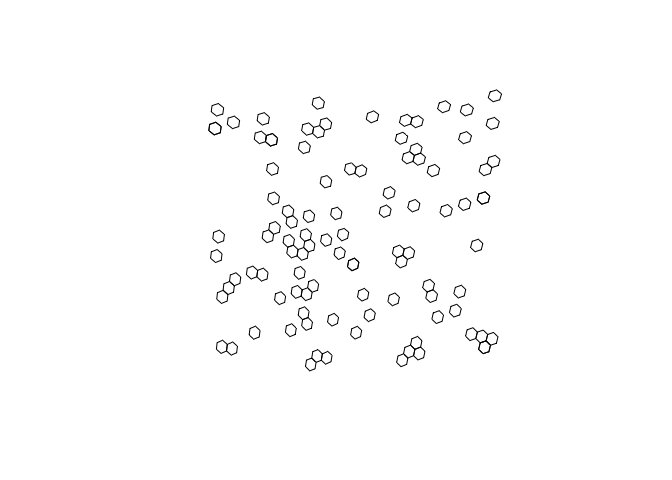
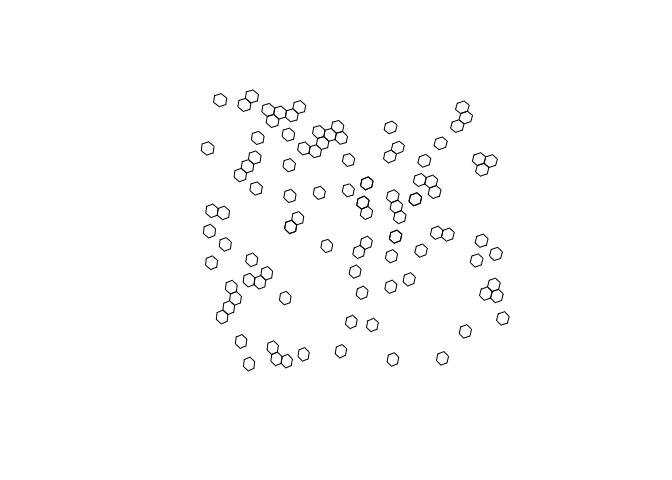
updates to pass check

diff --git a/src/rust/src/togeo.rs b/src/rust/src/togeo.rs
@@ -56,7 +56,7 @@ fn h3_to_vertexes_(x: List) -> List {
     
                 let mp = geo_types::MultiPoint::new(ps);
     
-                Robj::from(Geom::from(mp))
+                sfconversions::tosf::to_sfg(Geom::from(mp))
             }
 
         })

diff --git a/README.md b/README.md
@@ -4,6 +4,8 @@
 # h3o
 
 <!-- badges: start -->
+
+[![R-CMD-check](https://github.com/JosiahParry/h3o/actions/workflows/R-CMD-check.yaml/badge.svg)](https://github.com/JosiahParry/h3o/actions/workflows/R-CMD-check.yaml)
 <!-- badges: end -->
 
 h3o is a system-dependency free package to interact with the H3
@@ -53,22 +55,22 @@ pnts |>
 #> Simple feature collection with 100 features and 1 field
 #> Geometry type: POINT
 #> Dimension:     XY
-#> Bounding box:  xmin: -4.640664 ymin: 40.12973 xmax: 9.89838 ymax: 49.99956
+#> Bounding box:  xmin: -4.80551 ymin: 40.57655 xmax: 9.958988 ymax: 49.98309
 #> Geodetic CRS:  WGS 84
 #> # A tibble: 100 × 2
-#>                  geometry              h3
-#>  *            <POINT [°]>            <H3>
-#>  1  (-0.1748193 48.79705) 8518656bfffffff
-#>  2   (0.8532506 46.80069) 85186893fffffff
-#>  3     (6.62694 42.85004) 85396bb7fffffff
-#>  4 (-0.03733749 48.06814) 8518610ffffffff
-#>  5    (0.464929 45.62997) 85186b97fffffff
-#>  6    (6.293697 42.92604) 8539694bfffffff
-#>  7  (-0.6392504 42.96113) 85397593fffffff
-#>  8    (2.020749 45.14571) 85396597fffffff
-#>  9     (6.787495 41.8565) 85394d8bfffffff
-#> 10   (-2.065804 49.31534) 85186293fffffff
-#> # … with 90 more rows
+#>                 geometry              h3
+#>  *           <POINT [°]>            <H3>
+#>  1 (-0.8983678 46.42658) 85186a8bfffffff
+#>  2   (1.884723 41.12234) 853946a7fffffff
+#>  3  (-4.056968 44.74521) 85185daffffffff
+#>  4   (8.173147 49.37186) 851f85b7fffffff
+#>  5   (3.206761 41.95335) 8539451bfffffff
+#>  6   (4.490571 43.27424) 85396eaffffffff
+#>  7  (-2.247376 43.43344) 85184b83fffffff
+#>  8  (-2.228073 46.82696) 85184577fffffff
+#>  9    (8.85834 47.34941) 851f8ecffffffff
+#> 10   (8.744089 47.93225) 851f8177fffffff
+#> # ℹ 90 more rows
 ```
 
 Additionally, H3 vectors also have an `st_as_sfc()` method which lets us
@@ -123,18 +125,18 @@ cell_edges <- h3_edges(h3s[1:3])
 cell_edges
 #> [[1]]
 #> <H3Edge[6]>
-#> [1] 11418657ffffffff 12418657ffffffff 13418657ffffffff 14418657ffffffff
-#> [5] 15418657ffffffff 16418657ffffffff
+#> [1] 114186a9ffffffff 124186a9ffffffff 134186a9ffffffff 144186a9ffffffff
+#> [5] 154186a9ffffffff 164186a9ffffffff
 #> 
 #> [[2]]
 #> <H3Edge[6]>
-#> [1] 114186c3ffffffff 124186c3ffffffff 134186c3ffffffff 144186c3ffffffff
-#> [5] 154186c3ffffffff 164186c3ffffffff
+#> [1] 1143946bffffffff 1243946bffffffff 1343946bffffffff 1443946bffffffff
+#> [5] 1543946bffffffff 1643946bffffffff
 #> 
 #> [[3]]
 #> <H3Edge[6]>
-#> [1] 114396bbffffffff 124396bbffffffff 134396bbffffffff 144396bbffffffff
-#> [5] 154396bbffffffff 164396bbffffffff
+#> [1] 114185dbffffffff 124185dbffffffff 134185dbffffffff 144185dbffffffff
+#> [5] 154185dbffffffff 164185dbffffffff
 ```
 
 We’ve created a list of each cell’s edges. We can flatten them using
@@ -144,11 +146,11 @@ We’ve created a list of each cell’s edges. We can flatten them using
 cell_edges <- flatten_edges(cell_edges)
 cell_edges
 #> <H3Edge[18]>
-#>  [1] 11418657ffffffff 12418657ffffffff 13418657ffffffff 14418657ffffffff
-#>  [5] 15418657ffffffff 16418657ffffffff 114186c3ffffffff 124186c3ffffffff
-#>  [9] 134186c3ffffffff 144186c3ffffffff 154186c3ffffffff 164186c3ffffffff
-#> [13] 114396bbffffffff 124396bbffffffff 134396bbffffffff 144396bbffffffff
-#> [17] 154396bbffffffff 164396bbffffffff
+#>  [1] 114186a9ffffffff 124186a9ffffffff 134186a9ffffffff 144186a9ffffffff
+#>  [5] 154186a9ffffffff 164186a9ffffffff 1143946bffffffff 1243946bffffffff
+#>  [9] 1343946bffffffff 1443946bffffffff 1543946bffffffff 1643946bffffffff
+#> [13] 114185dbffffffff 124185dbffffffff 134185dbffffffff 144185dbffffffff
+#> [17] 154185dbffffffff 164185dbffffffff
 ```
 
 These can be cast to sfc objects using its `st_as_sfc()` method.
@@ -158,14 +160,14 @@ sf::st_as_sfc(cell_edges)
 #> Geometry set for 18 features 
 #> Geometry type: LINESTRING
 #> Dimension:     XY
-#> Bounding box:  xmin: -0.1887568 ymin: 42.46421 xmax: 6.894879 ymax: 49.06668
+#> Bounding box:  xmin: -4.256158 ymin: 40.84516 xmax: 2.07735 ymax: 46.73547
 #> Geodetic CRS:  WGS 84
 #> First 5 geometries:
-#> LINESTRING (0.06718183 48.61807, 0.3797637 48.6...
-#> LINESTRING (-0.1314807 49.00394, -0.1887568 48....
-#> LINESTRING (-0.1887568 48.77929, 0.06718183 48....
-#> LINESTRING (0.438739 48.9049, 0.1834448 49.06668)
-#> LINESTRING (0.3797637 48.68094, 0.438739 48.9049)
+#> LINESTRING (-0.7938494 46.27618, -0.4911588 46....
+#> LINESTRING (-0.9919804 46.66586, -1.044524 46.4...
+#> LINESTRING (-1.044524 46.43587, -0.7938494 46.2...
+#> LINESTRING (-0.4369869 46.5752, -0.6871241 46.7...
+#> LINESTRING (-0.4911588 46.3459, -0.4369869 46.5...
 ```
 
 Additionally, you can get the vertexes of H3 cell indexes using
@@ -176,14 +178,14 @@ h3_to_vertexes(h3s)
 #> Geometry set for 100 features 
 #> Geometry type: MULTIPOINT
 #> Dimension:     XY
-#> Bounding box:  xmin: -5.026879 ymin: 39.94716 xmax: 10.23339 ymax: 50.28041
+#> Bounding box:  xmin: -5.149019 ymin: 40.39257 xmax: 10.15344 ymax: 50.21131
 #> Geodetic CRS:  WGS 84
 #> First 5 geometries:
-#> MULTIPOINT ((0.1834448 49.06668), (-0.1314807 4...
-#> MULTIPOINT ((1.137485 47.13162), (0.8340071 47....
-#> MULTIPOINT ((6.354821 42.84855), (6.282053 42.6...
-#> MULTIPOINT ((0.009641755 48.393), (-0.3021414 4...
-#> MULTIPOINT ((0.2465874 45.86362), (-0.05258159 ...
+#> MULTIPOINT ((-0.6871241 46.73547), (-0.9919804 ...
+#> MULTIPOINT ((1.563896 41.22113), (1.508041 40.9...
+#> MULTIPOINT ((-3.913195 45.05064), (-4.214897 44...
+#> MULTIPOINT ((7.743345 49.38758), (7.659308 49.1...
+#> MULTIPOINT ((3.125022 42.13971), (3.063423 41.9...
 ```
 
 ## Bench marks:
@@ -201,8 +203,8 @@ bench::mark(
 #> # A tibble: 2 × 6
 #>   expression      min   median `itr/sec` mem_alloc `gc/sec`
 #>   <bch:expr> <bch:tm> <bch:tm>     <dbl> <bch:byt>    <dbl>
-#> 1 h3o        305.98µs 327.59µs     2997.   26.84KB     8.23
-#> 2 h3jsr        7.51ms   7.81ms      124.    3.02MB    24.8
+#> 1 h3o        292.17µs 312.24µs     3111.   26.84KB     36.9
+#> 2 h3jsr        7.51ms   7.94ms      124.    3.02MB     27.5
 ```
 
 Converting points to cells
@@ -216,8 +218,8 @@ bench::mark(
 #> # A tibble: 2 × 6
 #>   expression      min   median `itr/sec` mem_alloc `gc/sec`
 #>   <bch:expr> <bch:tm> <bch:tm>     <dbl> <bch:byt>    <dbl>
-#> 1 h3o        108.49µs 124.93µs     6254.      848B     11.5
-#> 2 h3jsr        2.03ms   2.17ms      424.     856KB     13.0
+#> 1 h3o        108.44µs 127.84µs     5916.      848B     11.4
+#> 2 h3jsr        2.06ms   2.55ms      373.    1.03MB     12.9
 ```
 
 Retrieve edges
@@ -231,8 +233,8 @@ bench::mark(
 #> # A tibble: 2 × 6
 #>   expression      min   median `itr/sec` mem_alloc `gc/sec`
 #>   <bch:expr> <bch:tm> <bch:tm>     <dbl> <bch:byt>    <dbl>
-#> 1 h3o         596.6µs 641.12µs     1103.      848B     12.1
-#> 2 h3jsr         1.8ms   2.04ms      456.    82.8KB     13.0
+#> 1 h3o         602.5µs 682.36µs     1054.      848B     9.82
+#> 2 h3jsr         1.8ms   2.12ms      425.    71.4KB    16.2
 ```
 
 Get origins and destinations from edges.
@@ -251,6 +253,6 @@ bench::mark(
 #> # A tibble: 2 × 6
 #>   expression      min   median `itr/sec` mem_alloc `gc/sec`
 #>   <bch:expr> <bch:tm> <bch:tm>     <dbl> <bch:byt>    <dbl>
-#> 1 h3o          20.1µs   25.4µs    33736.    12.7KB     13.5
-#> 2 h3jsr         464µs  628.7µs     1461.    34.8KB     18.6
+#> 1 h3o          19.6µs   22.9µs    34920.    12.7KB     10.5
+#> 2 h3jsr       471.4µs  543.2µs     1787.    34.8KB     22.6
 ```
